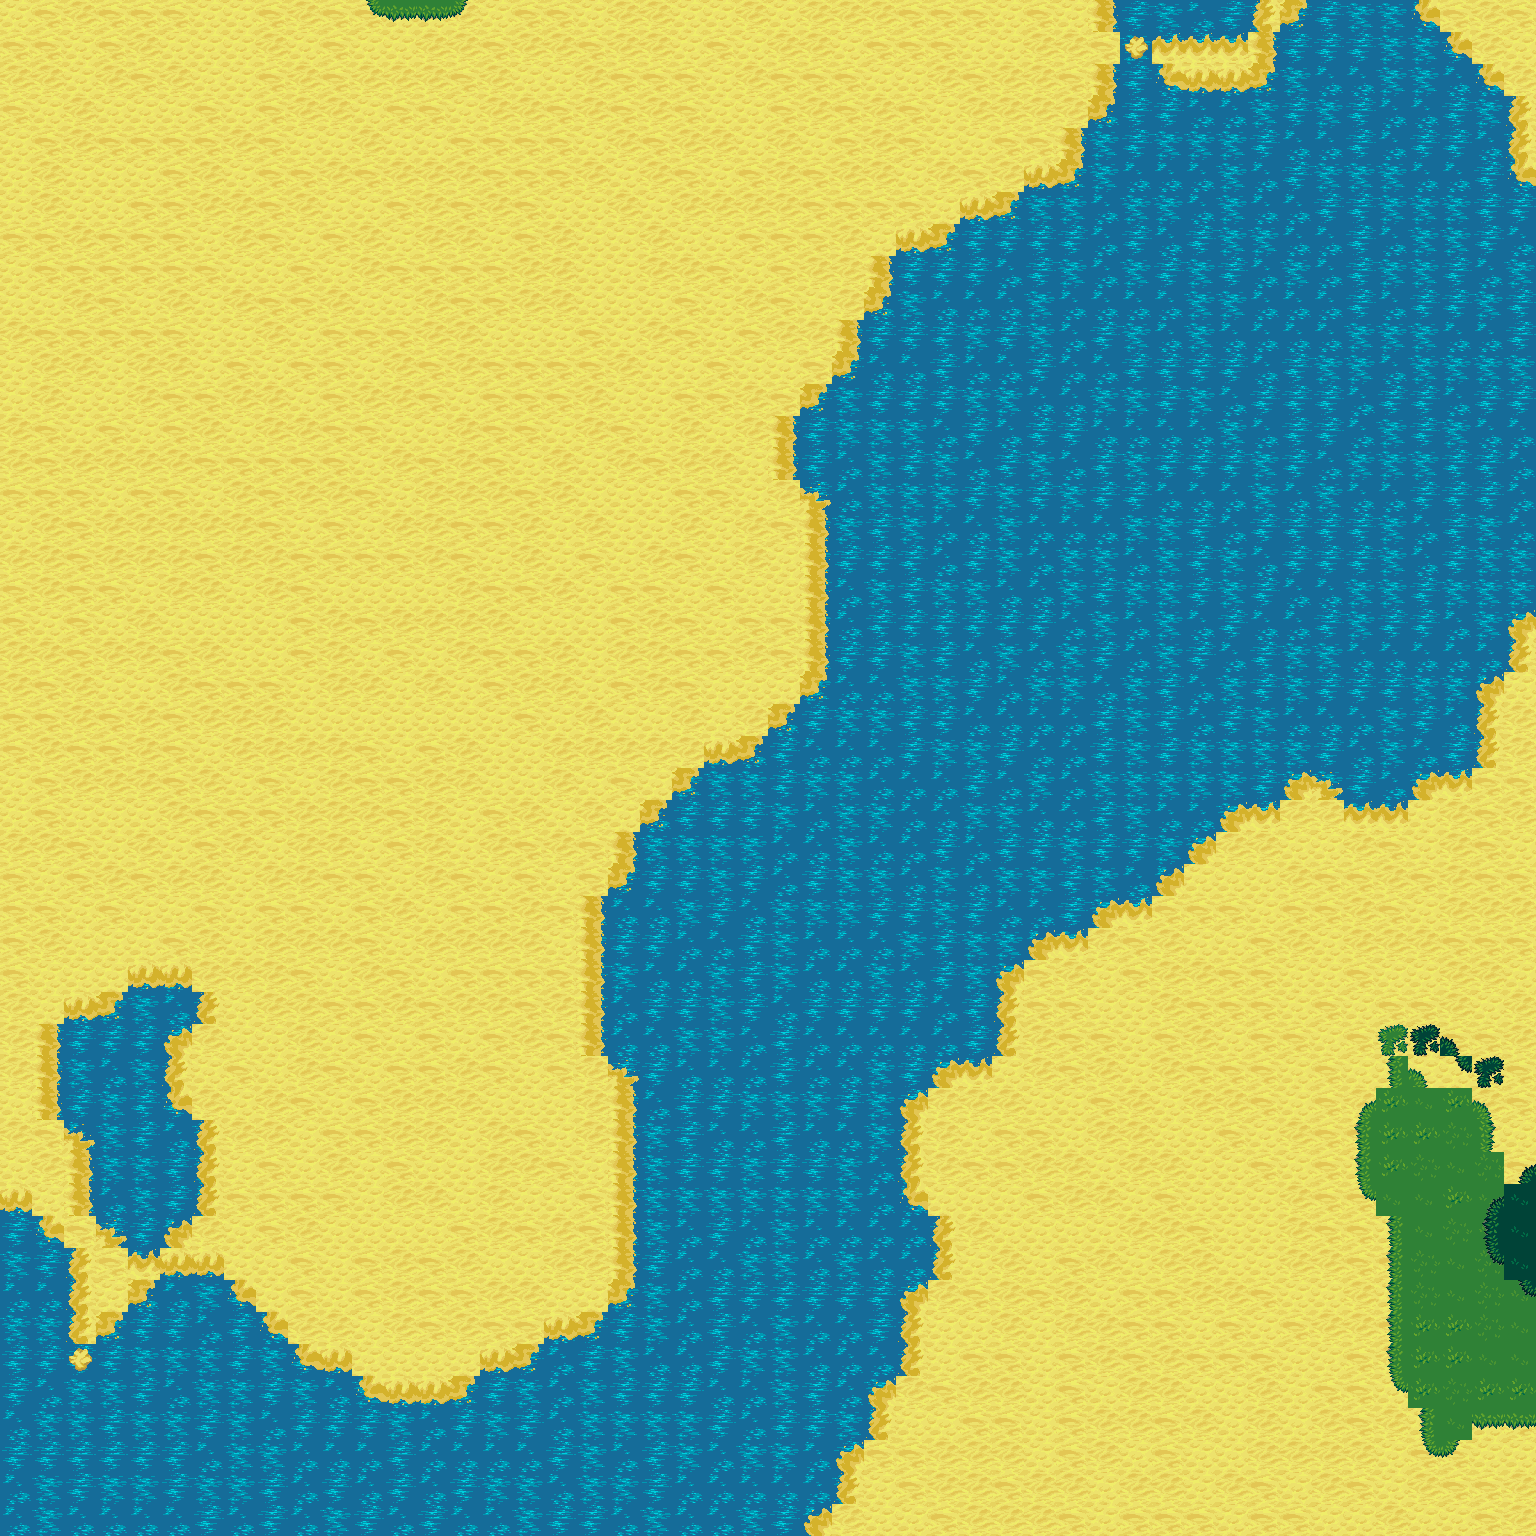
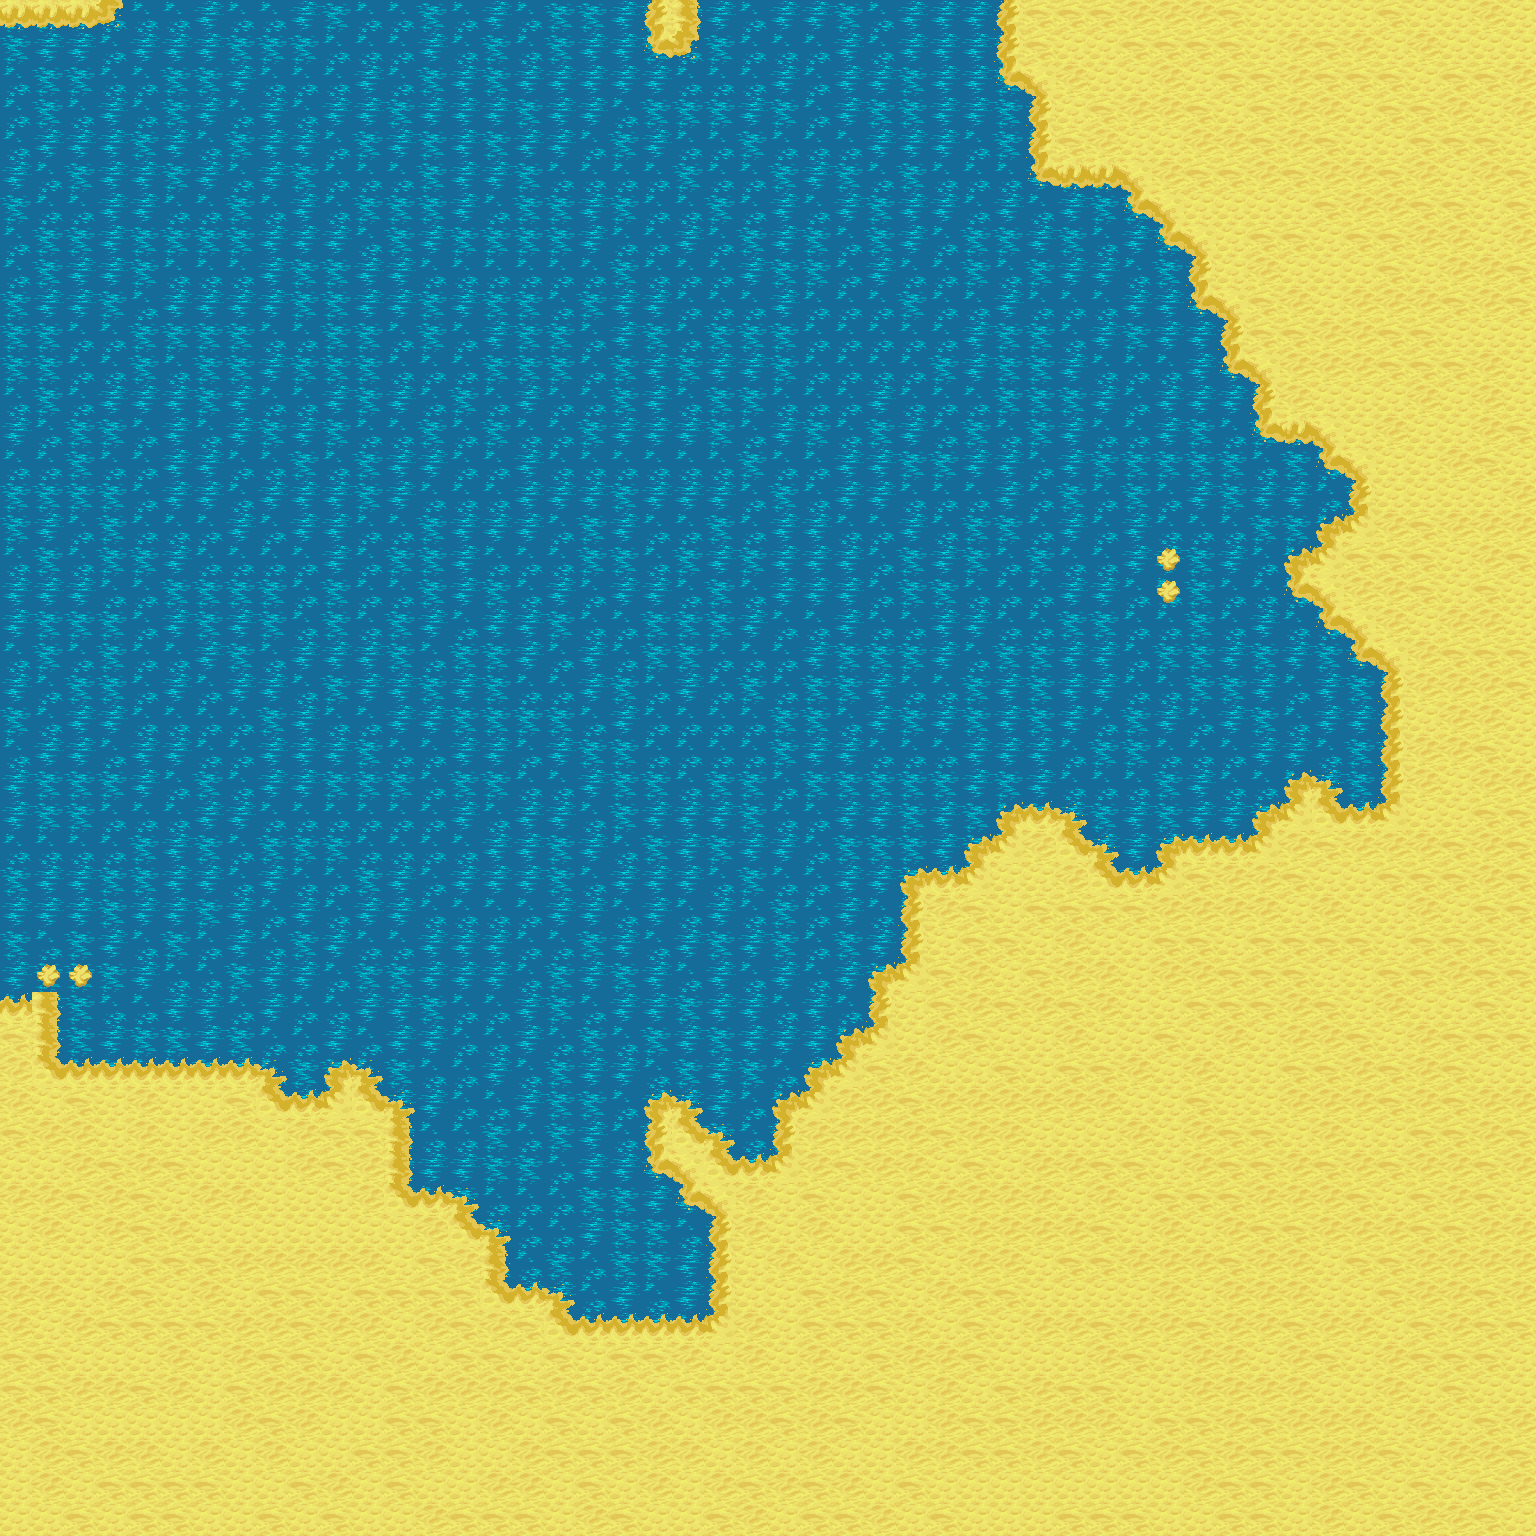
Added diagonal borders to autotiling. Pending review on some patches behaviour now.

diff --git a/main.py b/main.py
@@ -45,7 +45,7 @@ def calcular_mascara_borde(mapa, x, y, recursive=True):
     """
     if recursive:
         mascara_actual = calcular_mascara_borde(mapa, x, y, False)
-        if mascara_actual == 15:
+        if mascara_actual&15 == 15:
             return mascara_actual
     
     # --- BITS DE MÁSCARA (Norte, Este, Sur, Oeste) ---
@@ -54,13 +54,21 @@ def calcular_mascara_borde(mapa, x, y, recursive=True):
     BIT_ESTE = 2   # 2^1
     BIT_SUR = 4    # 2^2
     BIT_OESTE = 8  # 2^3
+    BIT_NOROESTE = 16  # 2^4
+    BIT_NORESTE = 32   # 2^5
+    BIT_SUROESTE = 64    # 2^6
+    BIT_SURESTE = 128  # 2^7
     
     # Lista de direcciones y sus desplazamientos (dy, dx) y valores de bit
     VECINOS = [
         (-1, 0, BIT_NORTE),  # Norte
         ( 0, 1, BIT_ESTE),   # Este
         ( 1, 0, BIT_SUR),    # Sur
-        ( 0,-1, BIT_OESTE)   # Oeste
+        ( 0,-1, BIT_OESTE),   # Oeste
+        (-1, -1, BIT_NOROESTE),  # Norte
+        ( 1, -1, BIT_SUROESTE),   # Este
+        ( -1, 1, BIT_NORESTE),    # Sur
+        ( 1, 1, BIT_SURESTE)   # Oeste
     ]
 
     target_terreno = mapa[y][x]
@@ -83,7 +91,7 @@ def calcular_mascara_borde(mapa, x, y, recursive=True):
                 terreno_vecino = calcular_terreno_base(mapa, nx, ny)
                 # Si es un patch, invertir la lógica
                 # Por ejemplo, un parche de agua es como si fuese arena
-                if mascara_vecino in [5,7,10,11,13,14,15]:
+                if (mascara_vecino & 15) in [5,7,10,11,13,14,15]:
                     igual_terreno = target_terreno == terreno_vecino
             # Si el vecino NO es el mismo terreno, se requiere un borde
             # *o* si el vecino es el 'terreno central' que queremos bordear.
@@ -98,20 +106,24 @@ def calcular_terreno_base(mapa, x, y):
     terreno_actual = mapa[y][x]
     candidato = terreno_actual
     mascara_actual = calcular_mascara_borde(mapa, x, y, False)
-    if mascara_actual in [5,7,10,11,13,14,15]:
+    if mascara_actual&15 in [5,7,10,11,13,14,15]:
         candidato = None
     VECINOS = [
         (-1, 0),
         (0, -1),
         (1, 0),
-        (0, 1)
+        (0, 1),
+        (-1, -1),
+        (1, -1),
+        (-1, 1),
+        (1, 1),
     ]
     for dx,dy in VECINOS:
         nx = x + dx
         ny = y + dy
         if 0 <= nx < ANCHO and 0 <= ny < ALTO:
-            mascara_vecino = calcular_mascara_borde(mapa, nx, ny, False)
-            if mascara_vecino == 15:
+            mascara_vecino = calcular_mascara_borde(mapa, nx, ny, False) & 15
+            if mascara_vecino&15 == 15:
                 for dx2,dy2 in VECINOS:
                     nx2 = nx + dx2
                     ny2 = ny + dy2
@@ -120,7 +132,7 @@ def calcular_terreno_base(mapa, x, y):
                             candidato = mapa[ny2][nx2]
                         elif PRIORIDAD_TERRENO[mapa[ny2][nx2]] < PRIORIDAD_TERRENO[candidato]:
                             candidato = mapa[ny2][nx2]
-            elif mascara_vecino in [5,7,10,11,13,14]:
+            elif mascara_vecino&15 in [5,7,10,11,13,14]:
                 for dx2,dy2 in VECINOS:
                     nx2 = nx + dx2
                     ny2 = ny + dy2
@@ -139,30 +151,39 @@ def autotile(mapa_terreno, name):
     for y in range(len(mapa_terreno)):
         for x in range(len(mapa_terreno[y])):
             mascara = calcular_mascara_borde(mapa_terreno, x, y)
+            mascara_simple = mascara & 15
             terreno_base = calcular_terreno_base(mapa_terreno, x, y)
             if mascara == 0 or (
-                mascara != 15 and PRIORIDAD_TERRENO[
+                mascara_simple != 15 and PRIORIDAD_TERRENO[
                     mapa_terreno[y][x]] < PRIORIDAD_TERRENO[terreno_base]
             ) or terreno_base == mapa_terreno[y][x]:
                 tile = random.choice(TERRAINS[mapa_terreno[y][x]]["tiles"])
             else:
                 border = "patch"
-                if mascara == 9:
+                if mascara_simple == 9:
                     border = "top_left"
-                elif mascara == 1:
+                elif mascara_simple == 1:
                     border = "top"
-                elif mascara == 3:
+                elif mascara_simple == 3:
                     border = "top_right"
-                elif mascara == 8:
+                elif mascara_simple == 8:
                     border = "left"
-                elif mascara == 2:
+                elif mascara_simple == 2:
                     border = "right"
-                elif mascara == 12:
+                elif mascara_simple == 12:
                     border = "bottom_left"
-                elif mascara == 4:
+                elif mascara_simple == 4:
                     border = "bottom"
-                elif mascara == 6:
+                elif mascara_simple == 6:
                     border = "bottom_right"
+                elif mascara == 16:
+                    border = "upper_left_diagonal"
+                elif mascara == 32:
+                    border = "upper_right_diagonal"
+                elif mascara == 64:
+                    border = "lower_left_diagonal"
+                elif mascara == 128:
+                    border = "lower_right_diagonal"
                 tile = random.choice(TERRAINS[terreno_base]["tiles"])
                 tile_region = (tile['x']*TILE_SIZE, tile['y']*TILE_SIZE, (tile['x'] + 1) * TILE_SIZE, (tile['y'] + 1) * TILE_SIZE)
                 map.paste(

diff --git a/terrain.py b/terrain.py
@@ -20,6 +20,10 @@ TERRAINS = {
             "bottom_left": {"x": 0, "y": 10},
             "bottom": {"x": 1, "y": 10},
             "bottom_right": {"x": 2, "y": 10},
+            "upper_left_diagonal": {"x": 2, "y": 7},
+            "upper_right_diagonal": {"x": 1, "y": 7},
+            "lower_left_diagonal": {"x": 2, "y": 6},
+            "lower_right_diagonal": {"x": 1, "y": 6},
         }
     },
     "water": {
@@ -38,6 +42,10 @@ TERRAINS = {
             "bottom_left": {"x": 18, "y": 4},
             "bottom": {"x": 19, "y": 4},
             "bottom_right": {"x": 20, "y": 4},
+            "upper_left_diagonal": {"x": 20, "y": 1},
+            "upper_right_diagonal": {"x": 19, "y": 1},
+            "lower_left_diagonal": {"x": 20, "y": 0},
+            "lower_right_diagonal": {"x": 19, "y": 0},
         }
     },
     "sand": {
@@ -56,6 +64,10 @@ TERRAINS = {
             "bottom_left": {"x": 0, "y": 16},
             "bottom": {"x": 1, "y": 16},
             "bottom_right": {"x": 2, "y": 16},
+            "upper_left_diagonal": {"x": 2, "y": 13},
+            "upper_right_diagonal": {"x": 1, "y": 13},
+            "lower_left_diagonal": {"x": 2, "y": 12},
+            "lower_right_diagonal": {"x": 1, "y": 12},
         }
     },
     "ground": {
@@ -73,6 +85,10 @@ TERRAINS = {
             "bottom_left": {"x": 0, "y": 4},
             "bottom": {"x": 1, "y": 4},
             "bottom_right": {"x": 2, "y": 4},
+            "upper_left_diagonal": {"x": 2, "y": 1},
+            "upper_right_diagonal": {"x": 1, "y": 1},
+            "lower_left_diagonal": {"x": 2, "y": 0},
+            "lower_right_diagonal": {"x": 1, "y": 0},
         }
     },
     "dark_grass": {
@@ -91,6 +107,10 @@ TERRAINS = {
             "bottom_left": {"x": 6, "y": 10},
             "bottom": {"x": 7, "y": 10},
             "bottom_right": {"x": 8, "y": 10},
+            "upper_left_diagonal": {"x": 8, "y": 7},
+            "upper_right_diagonal": {"x": 7, "y": 7},
+            "lower_left_diagonal": {"x": 8, "y": 6},
+            "lower_right_diagonal": {"x": 7, "y": 6},
         }
     },
     "dark_ground": {
@@ -108,6 +128,10 @@ TERRAINS = {
             "bottom_left": {"x": 3, "y": 4},
             "bottom": {"x": 4, "y": 4},
             "bottom_right": {"x": 5, "y": 4},
+            "upper_left_diagonal": {"x": 5, "y": 1},
+            "upper_right_diagonal": {"x": 4, "y": 1},
+            "lower_left_diagonal": {"x": 5, "y": 0},
+            "lower_right_diagonal": {"x": 4, "y": 0},
         }
     },
     "rock": {
@@ -125,6 +149,10 @@ TERRAINS = {
             "bottom_left": {"x": 6, "y": 4},
             "bottom": {"x": 7, "y": 4},
             "bottom_right": {"x": 8, "y": 4},
+            "upper_left_diagonal": {"x": 8, "y": 1},
+            "upper_right_diagonal": {"x": 7, "y": 1},
+            "lower_left_diagonal": {"x": 8, "y": 0},
+            "lower_right_diagonal": {"x": 7, "y": 0},
         }
     },
     "dark_rock": {
@@ -142,6 +170,10 @@ TERRAINS = {
             "bottom_left": {"x": 12, "y": 16},
             "bottom": {"x": 13, "y": 16},
             "bottom_right": {"x": 14, "y": 16},
+            "upper_left_diagonal": {"x": 14, "y": 13},
+            "upper_right_diagonal": {"x": 13, "y": 13},
+            "lower_left_diagonal": {"x": 14, "y": 12},
+            "lower_right_diagonal": {"x": 13, "y": 12},
         }
     },
     "lava": {
@@ -160,6 +192,10 @@ TERRAINS = {
             "bottom_left": {"x": 9, "y": 16},
             "bottom": {"x": 10, "y": 16},
             "bottom_right": {"x": 11, "y": 16},
+            "upper_left_diagonal": {"x": 11, "y": 13},
+            "upper_right_diagonal": {"x": 10, "y": 13},
+            "lower_left_diagonal": {"x": 11, "y": 12},
+            "lower_right_diagonal": {"x": 10, "y": 12},
         }
     },
 }

diff --git a/biome.py b/biome.py
@@ -85,14 +85,14 @@ BIOMES = {
     "grassland": {
         "ELEVACION": {
             "water": 0.15,
-            "sand": 0.35,
-            "grass": 0.6,
+            "sand": 0.37,
+            "grass": 0.57,
             "rock": 1.0
         },
         "HUMEDAD": {
             "sand": 0.1,
             "ground": 0.2,
-            "grass": 0.6,
+            "grass": 0.57,
             "dark_grass": 1.0
         },
         "TEMPERATURA": {
@@ -106,11 +106,11 @@ BIOMES = {
         "ELEVACION": {
             "water": 0.3,
             "sand": 0.3,
-            "grass": 0.57,
+            "grass": 0.58,
             "rock": 1.0
         },
         "HUMEDAD": {
-            "sand": 0.5,
+            "sand": 0.52,
             "ground": 0.62,
             "grass": 0.9,
             "dark_grass": 1.0
@@ -166,7 +166,7 @@ BIOMES = {
         "ELEVACION": {
             "water": 0.1,
             "sand": 0.2,
-            "grass": 0.4,
+            "grass": 0.38,
             "rock": 1.0
         },
         "HUMEDAD": {
@@ -177,8 +177,8 @@ BIOMES = {
         },
         "TEMPERATURA": {
             "dark_ground": 0.25,
-            "rock": 0.45,
-            "dark_rock": 0.54,
+            "rock": 0.44,
+            "dark_rock": 0.52,
             "lava": 1.0
         }
     },
